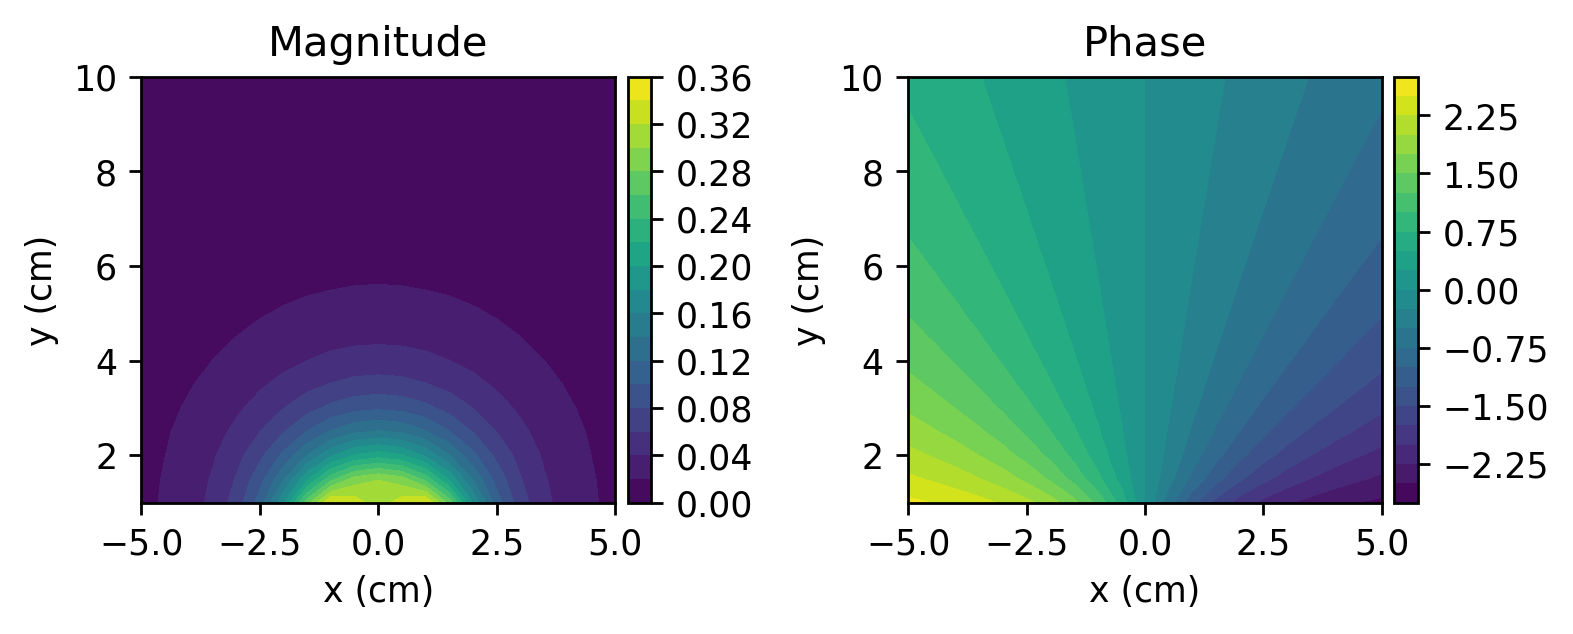
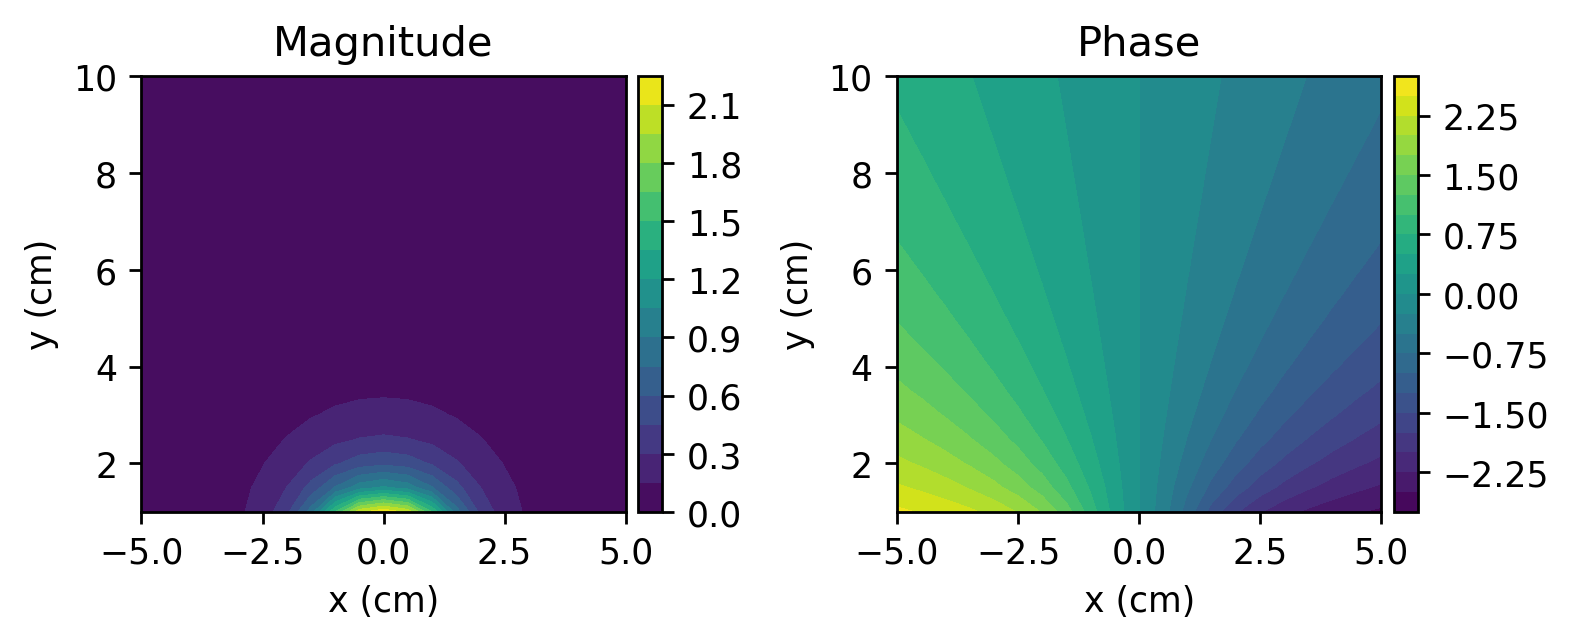
Bug fix for get slice

diff --git a/utils.py b/utils.py
@@ -148,18 +148,18 @@ def get_slice(data_volume: np.ndarray, slice: str, slice_loc: float,
         2D slice taken from data_volume at the desired location
     '''
     if slice.lower() == 'x':
-        x = np.arange(bbox[0], bbox[3], vol_res[0])
-        min_ind = np.argmin(x - slice_loc)
+        x = np.arange(bbox[0], bbox[3] + 1e-10, vol_res[0])
+        min_ind = np.argmin(np.abs(x - slice_loc))
         return data_volume[min_ind, :, :]
     
     elif slice.lower() == 'y':
-        y = np.arange(bbox[1], bbox[4], vol_res[1])
-        min_ind = np.argmin(y - slice_loc)
+        y = np.arange(bbox[1], bbox[4] + 1e-10, vol_res[1])
+        min_ind = np.argmin(np.abs(y - slice_loc))
         return data_volume[:, min_ind, :]
     
     elif slice.lower() == 'z':
-        z = np.arange(bbox[2], bbox[5], vol_res[2])
-        min_ind = np.argmin(z - slice_loc)
+        z = np.arange(bbox[2], bbox[5] + 1e-10, vol_res[2])
+        min_ind = np.argmin(np.abs(z - slice_loc))
         return data_volume[:, :, min_ind]
     
 

diff --git a/biot_savart.py b/biot_savart.py
@@ -14,7 +14,7 @@ from sympy_utils import create_sympy_circle, create_sympy_rectangle
 from plot_utils import plot_coil, plot_mag_phase, plot_fields
 from sympy.plotting import plot3d_parametric_line
 
-piecewise = True
+piecewise = False
 
 t, x, y, z = smp.symbols('t, x, y, z')
 bbox=(1, -5, -1, 10, 5, 1)
